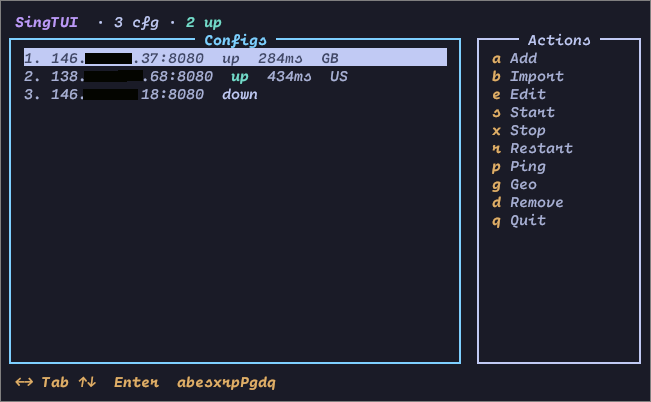
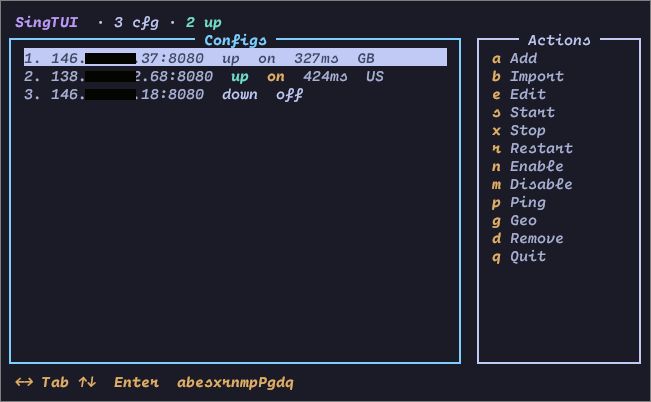
add enabled/disabled state. update screenshot

diff --git a/singtui.py b/singtui.py
@@ -838,6 +838,24 @@ def service_status(config):
         return "?"
 
 
+def service_enabled(config):
+    """Return 'on' if unit is enabled, 'off' otherwise (or '—' if no unit)."""
+    if not unit_path(config).exists():
+        return "—"
+    try:
+        r = subprocess.run(
+            ["systemctl", "--user", "is-enabled", unit_name(config)],
+            capture_output=True, text=True, timeout=5,
+        )
+        state = (r.stdout or "").strip()
+        # enabled / enabled-runtime / static / alias → treat enabled-ish as on
+        if state in ("enabled", "enabled-runtime"):
+            return "on"
+        return "off"
+    except Exception:
+        return "?"
+
+
 def service_action(config, action):
     """
     start/stop/restart — one-shot runtime control.
@@ -1163,6 +1181,7 @@ class DualPane:
         self.act_idx = 0
         self.cfg_scroll = 0
         self._st_cache = {}
+        self._en_cache = {}
         self._st_ttl = 2.0
         self.busy = ""
 
@@ -1185,11 +1204,22 @@ class DualPane:
         self._st_cache[name] = (now, st)
         return st
 
+    def enabled(self, name):
+        now = time.time()
+        hit = self._en_cache.get(name)
+        if hit and now - hit[0] < self._st_ttl:
+            return hit[1]
+        en = service_enabled(name)
+        self._en_cache[name] = (now, en)
+        return en
+
     def inv_status(self, name=None):
         if name:
             self._st_cache.pop(name, None)
+            self._en_cache.pop(name, None)
         else:
             self._st_cache.clear()
+            self._en_cache.clear()
 
     def draw(self):
         scr = self.stdscr
@@ -1236,13 +1266,14 @@ class DualPane:
                     break
                 name = cfgs[idx]
                 st = self.status(name)
+                en = self.enabled(name)
                 ping = cached_ping(name)
                 geo = cached_geo(name)
                 num = config_number(name) or (idx + 1)
                 endpoint = outbound_endpoint(name)
-                # "1. 146.70.61.18:8080  up  45ms  DE"
+                # "1. host:port  up  on  45ms  DE"
                 head = f"{num}. {endpoint}"
-                parts = [head, st]
+                parts = [head, st, en]
                 if ping:
                     parts.append(ping)
                 if geo:
@@ -1262,12 +1293,22 @@ class DualPane:
                     cx = 2 + len(name_part)
                     if cx >= left_w - 2:
                         continue
+                    # active state
                     pair = PAIR_UP if st == "up" else (PAIR_ERR if st == "fail" else PAIR_DIM)
                     safe_addstr(
                         scr, y, cx, st,
                         curses.color_pair(pair) | (curses.A_BOLD if st == "up" else 0),
                     )
-                    cx += len(st)
+                    cx += len(st) + 2
+                    if cx >= left_w - 2:
+                        continue
+                    # enabled state
+                    en_pair = PAIR_KEY if en == "on" else PAIR_DIM
+                    safe_addstr(
+                        scr, y, cx, en,
+                        curses.color_pair(en_pair) | (curses.A_BOLD if en == "on" else 0),
+                    )
+                    cx += len(en)
                     rest = ""
                     if ping:
                         rest += f"  {ping}"
